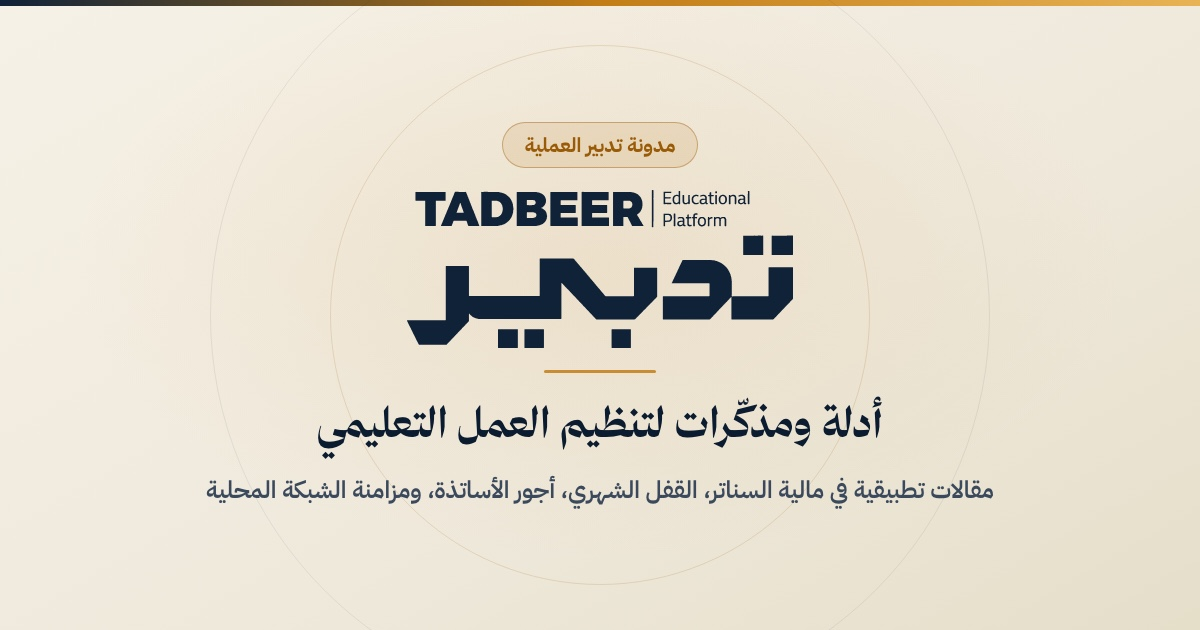
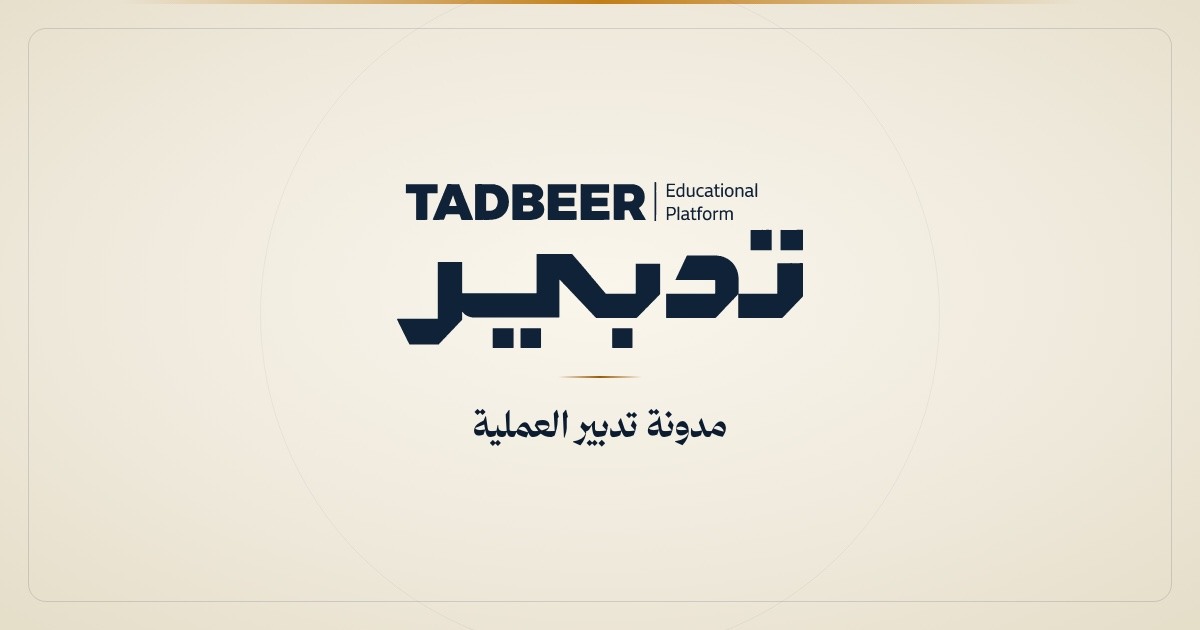
Refine Open Graph preview images to minimalist luxury Tadbeer lockup

diff --git a/index.html b/index.html
@@ -15,8 +15,8 @@
   <meta property="og:url" content="https://moayadfarooq9-ops.github.io/tadbeer-website/" />
   <meta property="og:title" content="منصة تدبير — تقنيات وأنظمة الإدارة التعليمية" />
   <meta property="og:description" content="وُضوحٌ. ثَباتٌ. تَدبير. منصّةُ تقنياتٍ تعليمية: وُضوحٌ تبدأُ به، ونظامٌ يتطوّرُ معك. أولى أدواتها: برنامج إدارة السناتر التعليمية (Pro 2.3.0 & Basic 1.2.0) أوفلاين 100%." />
-  <meta property="og:image" content="https://moayadfarooq9-ops.github.io/tadbeer-website/assets/brand/og-tadbeer-share.jpg?v=29" />
-  <meta property="og:image:secure_url" content="https://moayadfarooq9-ops.github.io/tadbeer-website/assets/brand/og-tadbeer-share.jpg?v=29" />
+  <meta property="og:image" content="https://moayadfarooq9-ops.github.io/tadbeer-website/assets/brand/og-tadbeer-share.jpg?v=30" />
+  <meta property="og:image:secure_url" content="https://moayadfarooq9-ops.github.io/tadbeer-website/assets/brand/og-tadbeer-share.jpg?v=30" />
   <meta property="og:image:type" content="image/jpeg" />
   <meta property="og:image:width" content="1200" />
   <meta property="og:image:height" content="630" />
@@ -24,7 +24,7 @@
   <meta name="twitter:card" content="summary_large_image" />
   <meta name="twitter:title" content="منصة تدبير — تقنيات وأنظمة الإدارة التعليمية" />
   <meta name="twitter:description" content="وُضوحٌ. ثَباتٌ. تَدبير. منصّةُ تقنياتٍ تعليمية تبدأ ببرنامج إدارة السناتر التعليمية (Pro 2.3.0 & Basic 1.2.0)." />
-  <meta name="twitter:image" content="https://moayadfarooq9-ops.github.io/tadbeer-website/assets/brand/og-tadbeer-share.jpg?v=29" />
+  <meta name="twitter:image" content="https://moayadfarooq9-ops.github.io/tadbeer-website/assets/brand/og-tadbeer-share.jpg?v=30" />
 
   <link rel="icon" type="image/svg+xml" href="assets/brand/tadbeer-icon-navy.svg" />
   <link rel="icon" type="image/png" sizes="512x512" href="assets/brand/tadbeer-touch-icon.png" />

diff --git a/blog.html b/blog.html
@@ -15,8 +15,8 @@
   <meta property="og:url" content="https://moayadfarooq9-ops.github.io/tadbeer-website/blog.html" />
   <meta property="og:title" content="مدونة تدبير — أدلة ومذكّرات تنظيم العمل التعليمي" />
   <meta property="og:description" content="مقالات عملية لصاحب السنتر والأستاذ والإداري: ضبط التحصيل، القفل الشهري، حساب مستحقات الأساتذة، والكنترول والشبكة المحلية." />
-  <meta property="og:image" content="https://moayadfarooq9-ops.github.io/tadbeer-website/assets/brand/og-tadbeer-blog.jpg?v=29" />
-  <meta property="og:image:secure_url" content="https://moayadfarooq9-ops.github.io/tadbeer-website/assets/brand/og-tadbeer-blog.jpg?v=29" />
+  <meta property="og:image" content="https://moayadfarooq9-ops.github.io/tadbeer-website/assets/brand/og-tadbeer-blog.jpg?v=30" />
+  <meta property="og:image:secure_url" content="https://moayadfarooq9-ops.github.io/tadbeer-website/assets/brand/og-tadbeer-blog.jpg?v=30" />
   <meta property="og:image:type" content="image/jpeg" />
   <meta property="og:image:width" content="1200" />
   <meta property="og:image:height" content="630" />
@@ -24,7 +24,7 @@
   <meta name="twitter:card" content="summary_large_image" />
   <meta name="twitter:title" content="مدونة تدبير — أدلة ومذكّرات تنظيم العمل التعليمي" />
   <meta name="twitter:description" content="مقالات عملية في مالية السناتر، القفل الشهري، أجور الأساتذة، ومزامنة الشبكة المحلية." />
-  <meta name="twitter:image" content="https://moayadfarooq9-ops.github.io/tadbeer-website/assets/brand/og-tadbeer-blog.jpg?v=29" />
+  <meta name="twitter:image" content="https://moayadfarooq9-ops.github.io/tadbeer-website/assets/brand/og-tadbeer-blog.jpg?v=30" />
 
   <link rel="icon" type="image/svg+xml" href="assets/brand/tadbeer-icon-navy.svg" />
   <link rel="icon" type="image/png" sizes="512x512" href="assets/brand/tadbeer-touch-icon.png" />

diff --git a/article.html b/article.html
@@ -14,8 +14,8 @@
   <meta property="og:url" content="https://moayadfarooq9-ops.github.io/tadbeer-website/article.html" />
   <meta property="og:title" content="مقال تطبيقي — مدونة تدبير العملية" />
   <meta property="og:description" content="دليل عملي من منصة تدبير في تنظيم مالية السناتر، مستحقات الأساتذة، الكنترول، والشبكة المحلية." />
-  <meta property="og:image" content="https://moayadfarooq9-ops.github.io/tadbeer-website/assets/brand/og-tadbeer-blog.jpg?v=29" />
-  <meta property="og:image:secure_url" content="https://moayadfarooq9-ops.github.io/tadbeer-website/assets/brand/og-tadbeer-blog.jpg?v=29" />
+  <meta property="og:image" content="https://moayadfarooq9-ops.github.io/tadbeer-website/assets/brand/og-tadbeer-blog.jpg?v=30" />
+  <meta property="og:image:secure_url" content="https://moayadfarooq9-ops.github.io/tadbeer-website/assets/brand/og-tadbeer-blog.jpg?v=30" />
   <meta property="og:image:type" content="image/jpeg" />
   <meta property="og:image:width" content="1200" />
   <meta property="og:image:height" content="630" />
@@ -23,7 +23,7 @@
   <meta name="twitter:card" content="summary_large_image" />
   <meta name="twitter:title" content="مقال تطبيقي — مدونة تدبير العملية" />
   <meta name="twitter:description" content="دليل عملي من منصة تدبير في تنظيم العمل الإداري والمالي للسناتر التعليمية." />
-  <meta name="twitter:image" content="https://moayadfarooq9-ops.github.io/tadbeer-website/assets/brand/og-tadbeer-blog.jpg?v=29" />
+  <meta name="twitter:image" content="https://moayadfarooq9-ops.github.io/tadbeer-website/assets/brand/og-tadbeer-blog.jpg?v=30" />
 
   <link rel="icon" type="image/svg+xml" href="assets/brand/tadbeer-icon-navy.svg" />
   <link rel="icon" type="image/png" sizes="512x512" href="assets/brand/tadbeer-touch-icon.png" />

diff --git a/assets/thumbnail-studio/generate-thumbnails.py b/assets/thumbnail-studio/generate-thumbnails.py
@@ -626,25 +626,25 @@ def build_blog_html(cfg: dict) -> str:
 </html>"""
 
 
-def build_og_banner_html(theme: str, pill: str, tagline: str, subline: str) -> str:
-    """Build deterministic 1200x630 Open Graph / WhatsApp / Facebook social link preview card."""
+def build_og_banner_html(theme: str, tagline: str) -> str:
+    """Build minimalist luxury 1200x630 Open Graph banner for crisp WhatsApp/Facebook previews."""
     is_ivory = theme == "ivory"
     bg_css = (
-        "radial-gradient(ellipse 68% 72% at 50% 42%, rgba(194, 125, 22, 0.10), transparent 65%), "
-        "linear-gradient(150deg, #F6F1E6 0%, #EFE9DC 58%, #E5DEC9 100%)"
+        "radial-gradient(ellipse 72% 72% at 50% 46%, #FAF6EC 0%, #EFE9DC 60%, #E5DEC9 100%)"
         if is_ivory
-        else "radial-gradient(ellipse 68% 72% at 50% 42%, rgba(194, 125, 22, 0.16), transparent 64%), "
-        "linear-gradient(150deg, #10243D 0%, #0B192C 58%, #07111E 100%)"
+        else "radial-gradient(ellipse 72% 72% at 50% 46%, #163050 0%, #0D1E34 56%, #071220 100%)"
     )
     logo_svg = "tadbeer-full-dark.svg" if is_ivory else "tadbeer-full-light.svg"
-    ring_color = "rgba(15, 34, 56, 0.08)" if is_ivory else "rgba(245, 240, 218, 0.07)"
-    ring_gold = "rgba(154, 91, 6, 0.16)" if is_ivory else "rgba(232, 179, 84, 0.14)"
-    tag_color = "#0B1C30" if is_ivory else "#FAF6EB"
-    sub_color = "#3A495C" if is_ivory else "rgba(245, 240, 218, 0.88)"
-    pill_bg = "rgba(180, 108, 8, 0.12)" if is_ivory else "rgba(232, 179, 84, 0.14)"
-    pill_border = "rgba(154, 91, 6, 0.42)" if is_ivory else "rgba(232, 179, 84, 0.48)"
-    pill_color = "#9A5B06" if is_ivory else "#F3C169"
-    rule_color = "#C27D16" if is_ivory else "#E8B354"
+    logo_height = "166px" if is_ivory else "178px"
+    frame_border = "rgba(15, 34, 56, 0.14)" if is_ivory else "rgba(232, 179, 84, 0.22)"
+    ring_color = "rgba(15, 34, 56, 0.05)" if is_ivory else "rgba(245, 240, 218, 0.045)"
+    tag_color = "#0B1C30" if is_ivory else "#EFE8D5"
+    rule_mid = "#9A5B06" if is_ivory else "#E8B354"
+    top_shimmer = (
+        "linear-gradient(90deg, transparent 10%, #C27D16 50%, transparent 90%)"
+        if is_ivory
+        else "linear-gradient(90deg, transparent 10%, #E8B354 50%, transparent 90%)"
+    )
 
     return f"""<!doctype html>
 <html lang="ar" dir="rtl">
@@ -661,50 +661,49 @@ def build_og_banner_html(theme: str, pill: str, tagline: str, subline: str) -> s
   .og-stage {{
     position: relative; width: 1200px; height: 630px;
     background: {bg_css};
-    display: flex; flex-direction: column; align-items: center; justify-content: center;
-    padding: 48px 72px; text-align: center;
+    display: flex; align-items: center; justify-content: center;
   }}
   .top-rule {{
-    position: absolute; top: 0; left: 0; right: 0; height: 6px;
-    background: linear-gradient(90deg, #0F2238 0%, #C27D16 50%, #E8B354 100%);
+    position: absolute; top: 0; left: 0; right: 0; height: 4px;
+    background: {top_shimmer};
+  }}
+  .inner-frame {{
+    position: absolute; inset: 28px; border-radius: 18px;
+    border: 1px solid {frame_border};
+    pointer-events: none;
   }}
   .ring {{
     position: absolute; border-radius: 50%; pointer-events: none;
-    border: 1.5px solid {ring_color};
+    border: 1px solid {ring_color};
+    width: 680px; height: 680px; top: 50%; left: 50%; transform: translate(-50%, -50%);
   }}
-  .ring.r1 {{ width: 780px; height: 780px; top: 50%; left: 50%; transform: translate(-50%, -50%); }}
-  .ring.r2 {{ width: 540px; height: 540px; top: 50%; left: 50%; transform: translate(-50%, -50%); border-color: {ring_gold}; }}
-  .inner {{
+  .center-lockup {{
     position: relative; z-index: 2;
-    display: flex; flex-direction: column; align-items: center; gap: 22px;
-    max-width: 960px;
+    display: flex; flex-direction: column; align-items: center; justify-content: center;
+    text-align: center;
   }}
-  .og-pill {{
-    font-size: 20px; font-weight: 700; padding: 7px 22px; border-radius: 999px;
-    background: {pill_bg}; border: 1.5px solid {pill_border}; color: {pill_color};
+  .og-logo {{ height: {logo_height}; width: auto; display: block; }}
+  .gold-bar {{
+    width: 84px; height: 2px; border-radius: 99px;
+    background: linear-gradient(90deg, transparent 0%, {rule_mid} 50%, transparent 100%);
+    margin: 28px auto 22px;
   }}
-  .og-logo {{ height: 158px; width: auto; display: block; }}
-  .gold-bar {{ width: 112px; height: 3px; border-radius: 99px; background: {rule_color}; opacity: 0.85; }}
   .og-tagline {{
     font-family: "Thmanyah Serif Display", "Thmanyah Sans", sans-serif;
-    font-size: 42px; font-weight: 700; color: {tag_color}; line-height: 1.3;
-  }}
-  .og-sub {{
-    font-size: 24px; font-weight: 600; color: {sub_color}; line-height: 1.5;
+    font-size: 36px; font-weight: 700; color: {tag_color}; line-height: 1.35;
+    letter-spacing: 0;
   }}
 </style>
 </head>
 <body>
   <div class="og-stage">
     <div class="top-rule"></div>
-    <div class="ring r1"></div>
-    <div class="ring r2"></div>
-    <div class="inner">
-      <span class="og-pill">{pill}</span>
+    <div class="inner-frame"></div>
+    <div class="ring"></div>
+    <div class="center-lockup">
       <img class="og-logo" src="file://{BRAND_DIR}/{logo_svg}" alt="تدبير" />
       <div class="gold-bar"></div>
       <div class="og-tagline">{tagline}</div>
-      <p class="og-sub">{subline}</p>
     </div>
   </div>
 </body>
@@ -782,23 +781,13 @@ def render_og_jpeg(html_text: str, out_jpg: Path, tmp_html: Path, tmp_png: Path)
 def generate_og_assets(tmp_file: Path) -> None:
     tmp_png = STUDIO_DIR / "_tmp_og.png"
     render_og_jpeg(
-        build_og_banner_html(
-            theme="navy",
-            pill="منصّة تقنيات تعليمية",
-            tagline="وُضوحٌ. ثَباتٌ. تَدبير.",
-            subline="وُضوحٌ تبدأُ به، ونظامٌ يتطوّرُ معك · أولى أدواتها: برنامج إدارة السناتر التعليمية",
-        ),
+        build_og_banner_html(theme="navy", tagline="وُضوحٌ. ثَباتٌ. تَدبير."),
         BRAND_DIR / "og-tadbeer-share.jpg",
         tmp_file,
         tmp_png,
     )
     render_og_jpeg(
-        build_og_banner_html(
-            theme="ivory",
-            pill="مدونة تدبير العملية",
-            tagline="أدلة ومذكّرات لتنظيم العمل التعليمي",
-            subline="مقالات تطبيقية في مالية السناتر، القفل الشهري، أجور الأساتذة، ومزامنة الشبكة المحلية",
-        ),
+        build_og_banner_html(theme="ivory", tagline="مدونة تدبير العملية"),
         BRAND_DIR / "og-tadbeer-blog.jpg",
         tmp_file,
         tmp_png,
